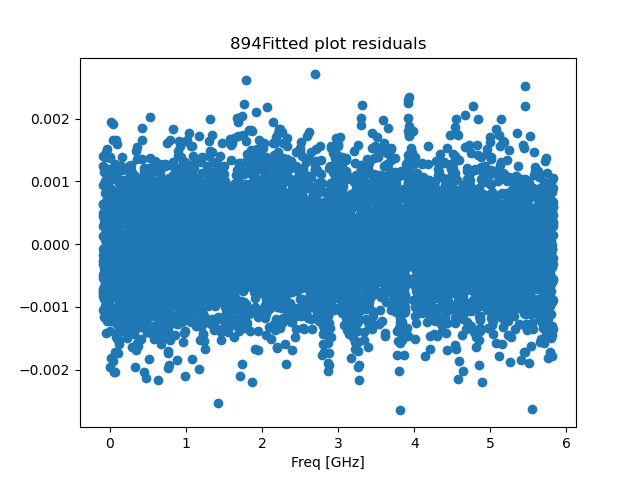
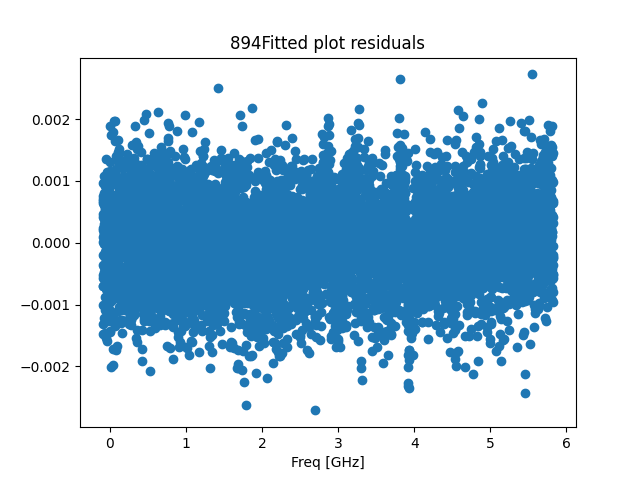
fully added new fitting stuff
need to run fits for all datas

diff --git a/TestingDataType.py b/TestingDataType.py
@@ -713,12 +713,12 @@ class data:
             if self.scan == '456':
                 peaks, properties = find_peaks(-self.scaledT,width=500,prominence=0.02)
                 p0 = 0.37 #scaledT pwr at top
-                Life = 1/137.54/2/(2*pi)#half of lifetime in GHz from "Measurement of the lifetimes of the 7p 2P3/2 and 7p 2P1/2 states of atomic cesium" -us
+                Gamma = 1/137.54/2/(2*pi)#half of lifetime in GHz from "Measurement of the lifetimes of the 7p 2P3/2 and 7p 2P1/2 states of atomic cesium" -us
 
             else:
                 peaks, properties = find_peaks(-self.scaledT,width=500, prominence=0.1)
                 p0=0.2 #scaledT power at top
-                Life = 1/34.791/2 /(2*pi) #half of lifetime in GHz from Stek
+                Gamma = 1/34.791/2 /(2*pi) #half of lifetime in GHz from Stek
             guess = self.beatfit(peaks[0]) #guess of frequency location of first peak relative to begin of fit
             coeff = self.hyp_weights
             
@@ -733,13 +733,13 @@ class data:
                         hotcell= np.loadtxt(self.par_folder+'\\PwrWings894.csv', delimiter=',')
                         baseline = hotcell[1]
                     else:
-                        baseline = 0.00818383 #estimate power in wings for 894
+                        baseline = 0.05*np.mean(self.scaledT[self.beat_rng[0]:peaks[0]-int(properties['widths'][0]*1.5)]) #estimate power in wings for 894
             else:
                 if os.path.exists(self.par_folder+'\\PwrWings456.csv'):
                     hotcell= np.loadtxt(self.par_folder+'\\PwrWings456.csv', delimiter=',')
                     baseline = hotcell[1]
                 else:
-                    baseline = 0.008 #estimate 5% power in wings for 894
+                    baseline = 0.008*np.mean(self.scaledT[self.beat_rng[0]:peaks[0]-int(properties['widths'][0]*1.5)]) #estimate 0.8% power in wings for 456
             plotting_freq = self.beatfit(np.array(self.indices[self.beat_rng[0]:self.beat_rng[1]]))
             # if self.etalon_ranges[0][1] != 0:
             #     test = LinFit(self.etalon_ranges, self.beatfit(self.indices), self.scaledT)
@@ -757,8 +757,8 @@ class data:
                 ('h1', test[0], False, test[0]-abs(test[0])*0.2, test[0]+abs(test[0])*0.2, None, None),
                 ('mv', guess, True, 0, 4, None, None),
                 ('T', 25, True, 0, 50, None, None),
-                ('gamma', Life/(2*pi), True, 0, Life, None, None),
-                ('base', baseline, True, baseline*0.5, baseline*2, None, None))
+                ('gamma', Gamma, False, Gamma*0.8, Gamma*3, None, None),
+                ('base', baseline, False, baseline*0.5, baseline*2, None, None))
             if self.scan == '456':
                 params['a'].set(value=1)
                 fun1 = lambda w,a,p0,h1,mv,T,gamma,base: (p0+h1*w)*np.exp(-a*((w-mv+self.abs_freq[0])/10**6)*(voigt(w,coeff[0],mv,np.sqrt(T+273.15)*k1*self.abs_freq[0],gamma)+
@@ -767,10 +767,12 @@ class data:
                 mod = lm.Model(fun1,['w'],['a','p0','h1','mv','T','gamma','base'])
                 result = mod.fit(self.scaledT[self.beat_rng[0]:self.beat_rng[1]],params=params,w=plotting_freq,method='ampgo')
             else:
+                params['gamma'].set(vary=True)
+                params['base'].set(vary=True)
                 fun1 = lambda w,a,p0,h1,mv,T,gamma,base: (p0+h1*w)*np.exp(-a*((w-mv+self.abs_freq[0])/10**6)*(voigt(w,coeff[0],mv,np.sqrt(T+273.15)*k1*self.abs_freq[0],gamma)+
                                                                                                             voigt(w,coeff[1],mv+self.hypsplit[1],np.sqrt(T+273.15)*k1*self.abs_freq[1],gamma))) + base
                 mod = lm.Model(fun1,['w'],['a','p0','h1','mv','T','gamma','base'])
-                result = mod.fit(self.scaledT[self.beat_rng[0]:self.beat_rng[1]],params=params,w=plotting_freq,method='leastsq')
+                result = mod.fit(self.scaledT[self.beat_rng[0]:self.beat_rng[1]],params=params,w=plotting_freq,method='ampgo')
             
             print(result.fit_report())
             resid = result.residual
